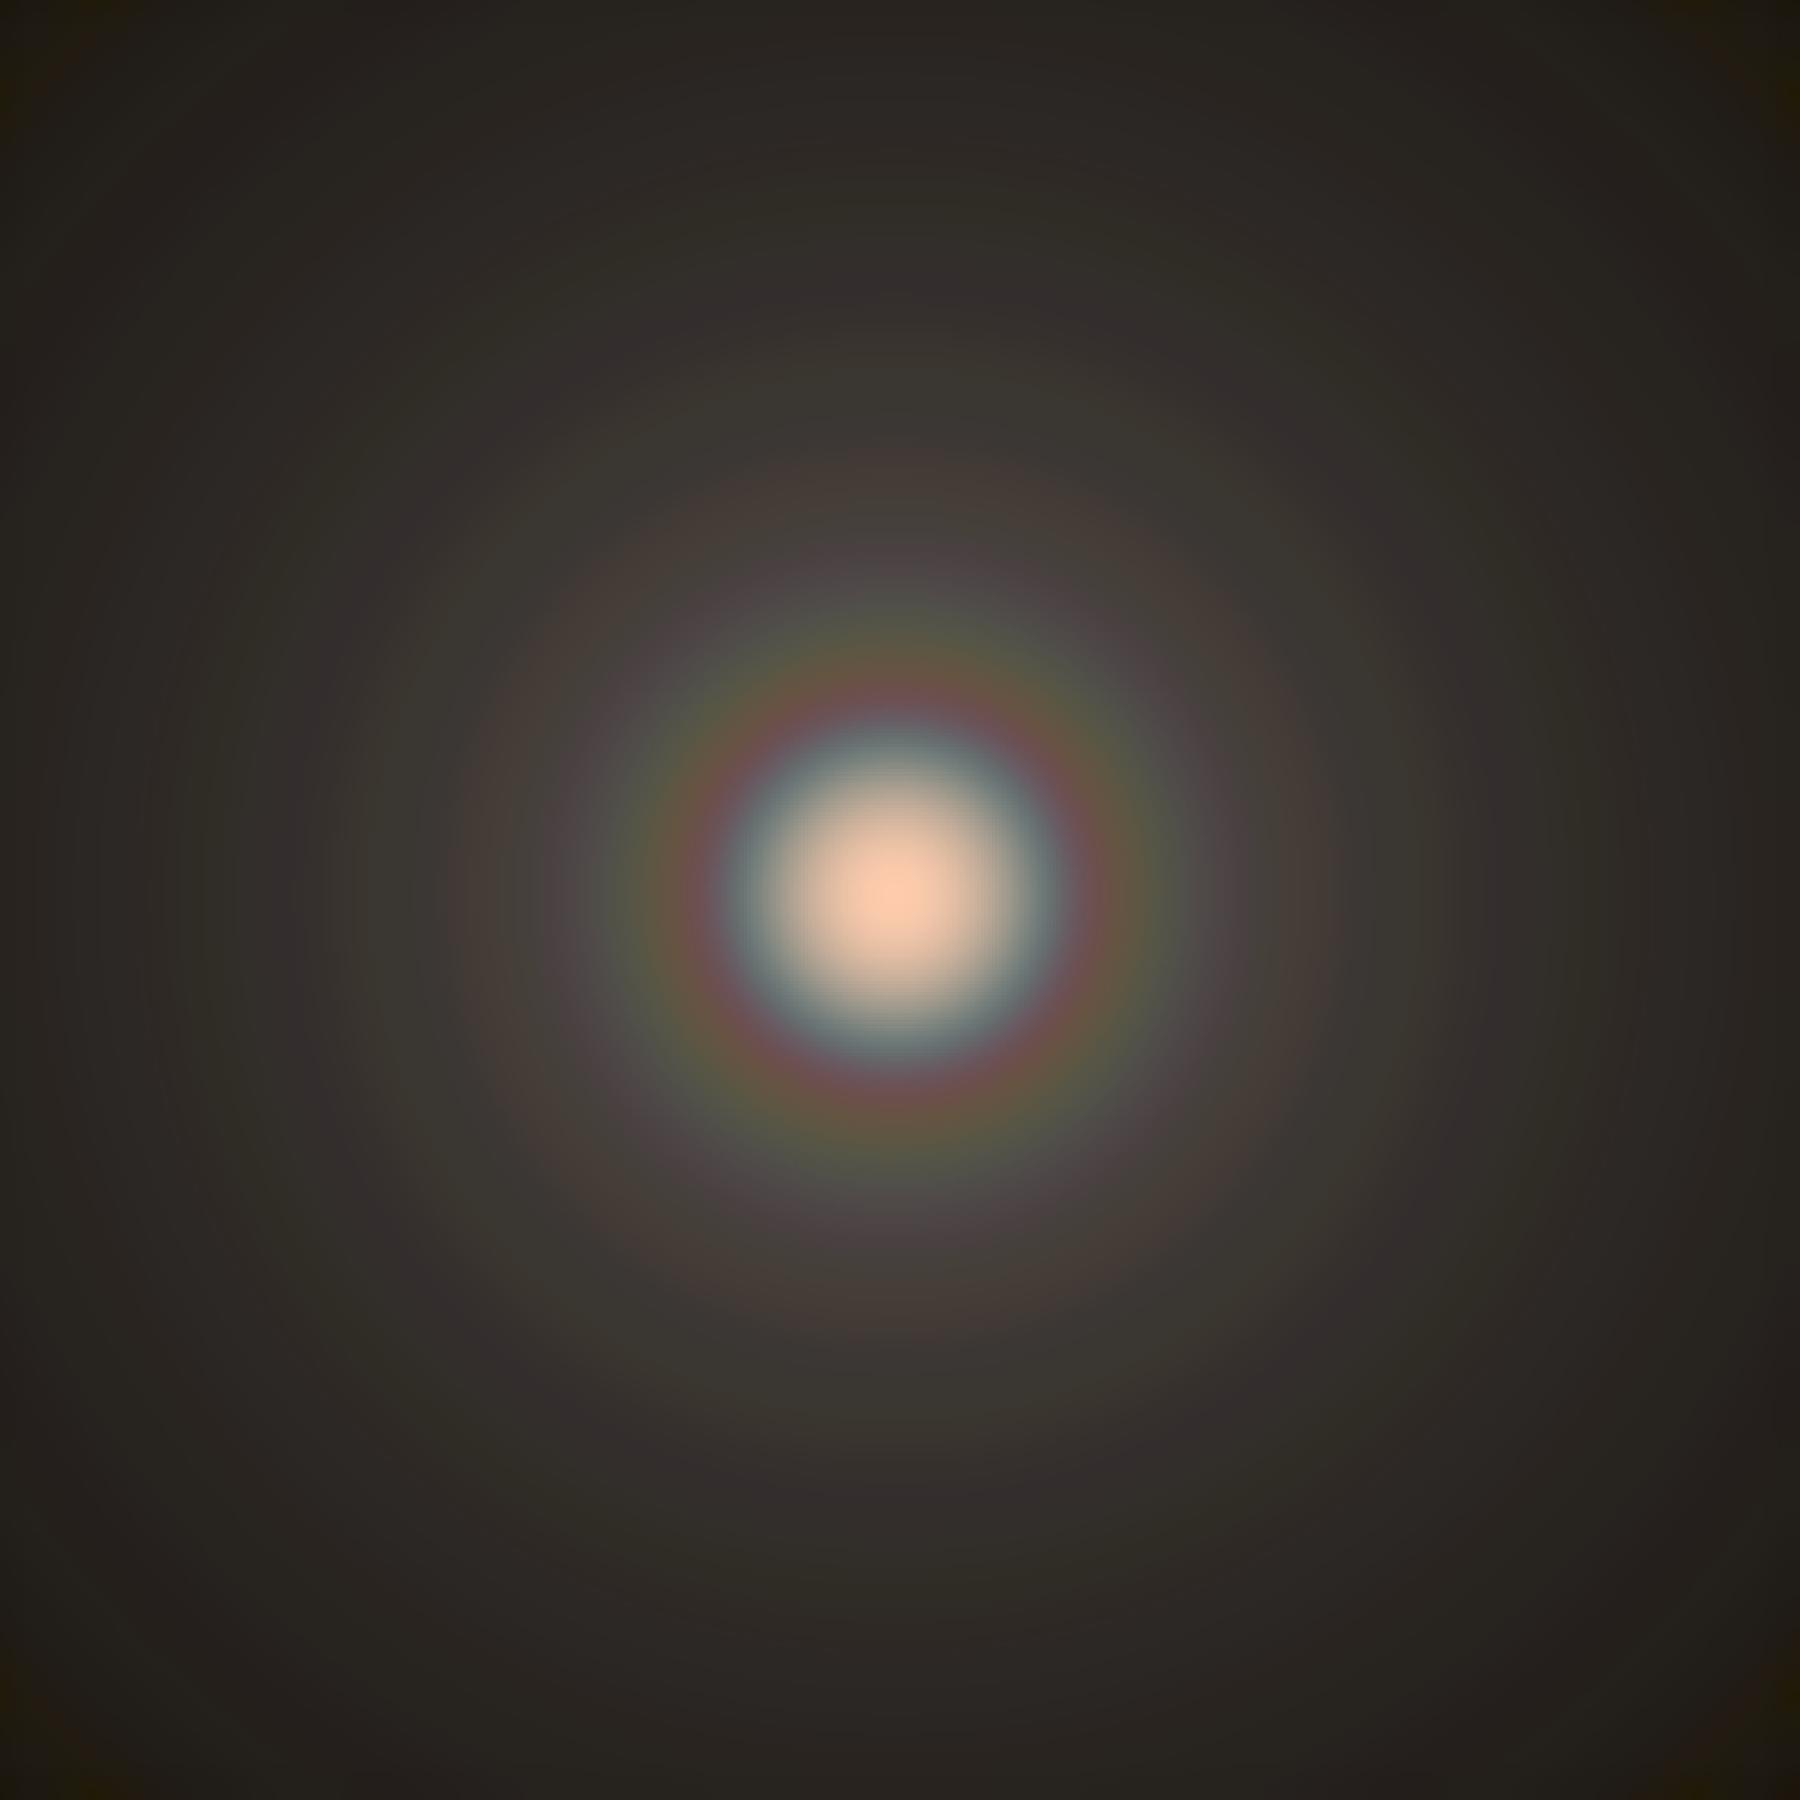
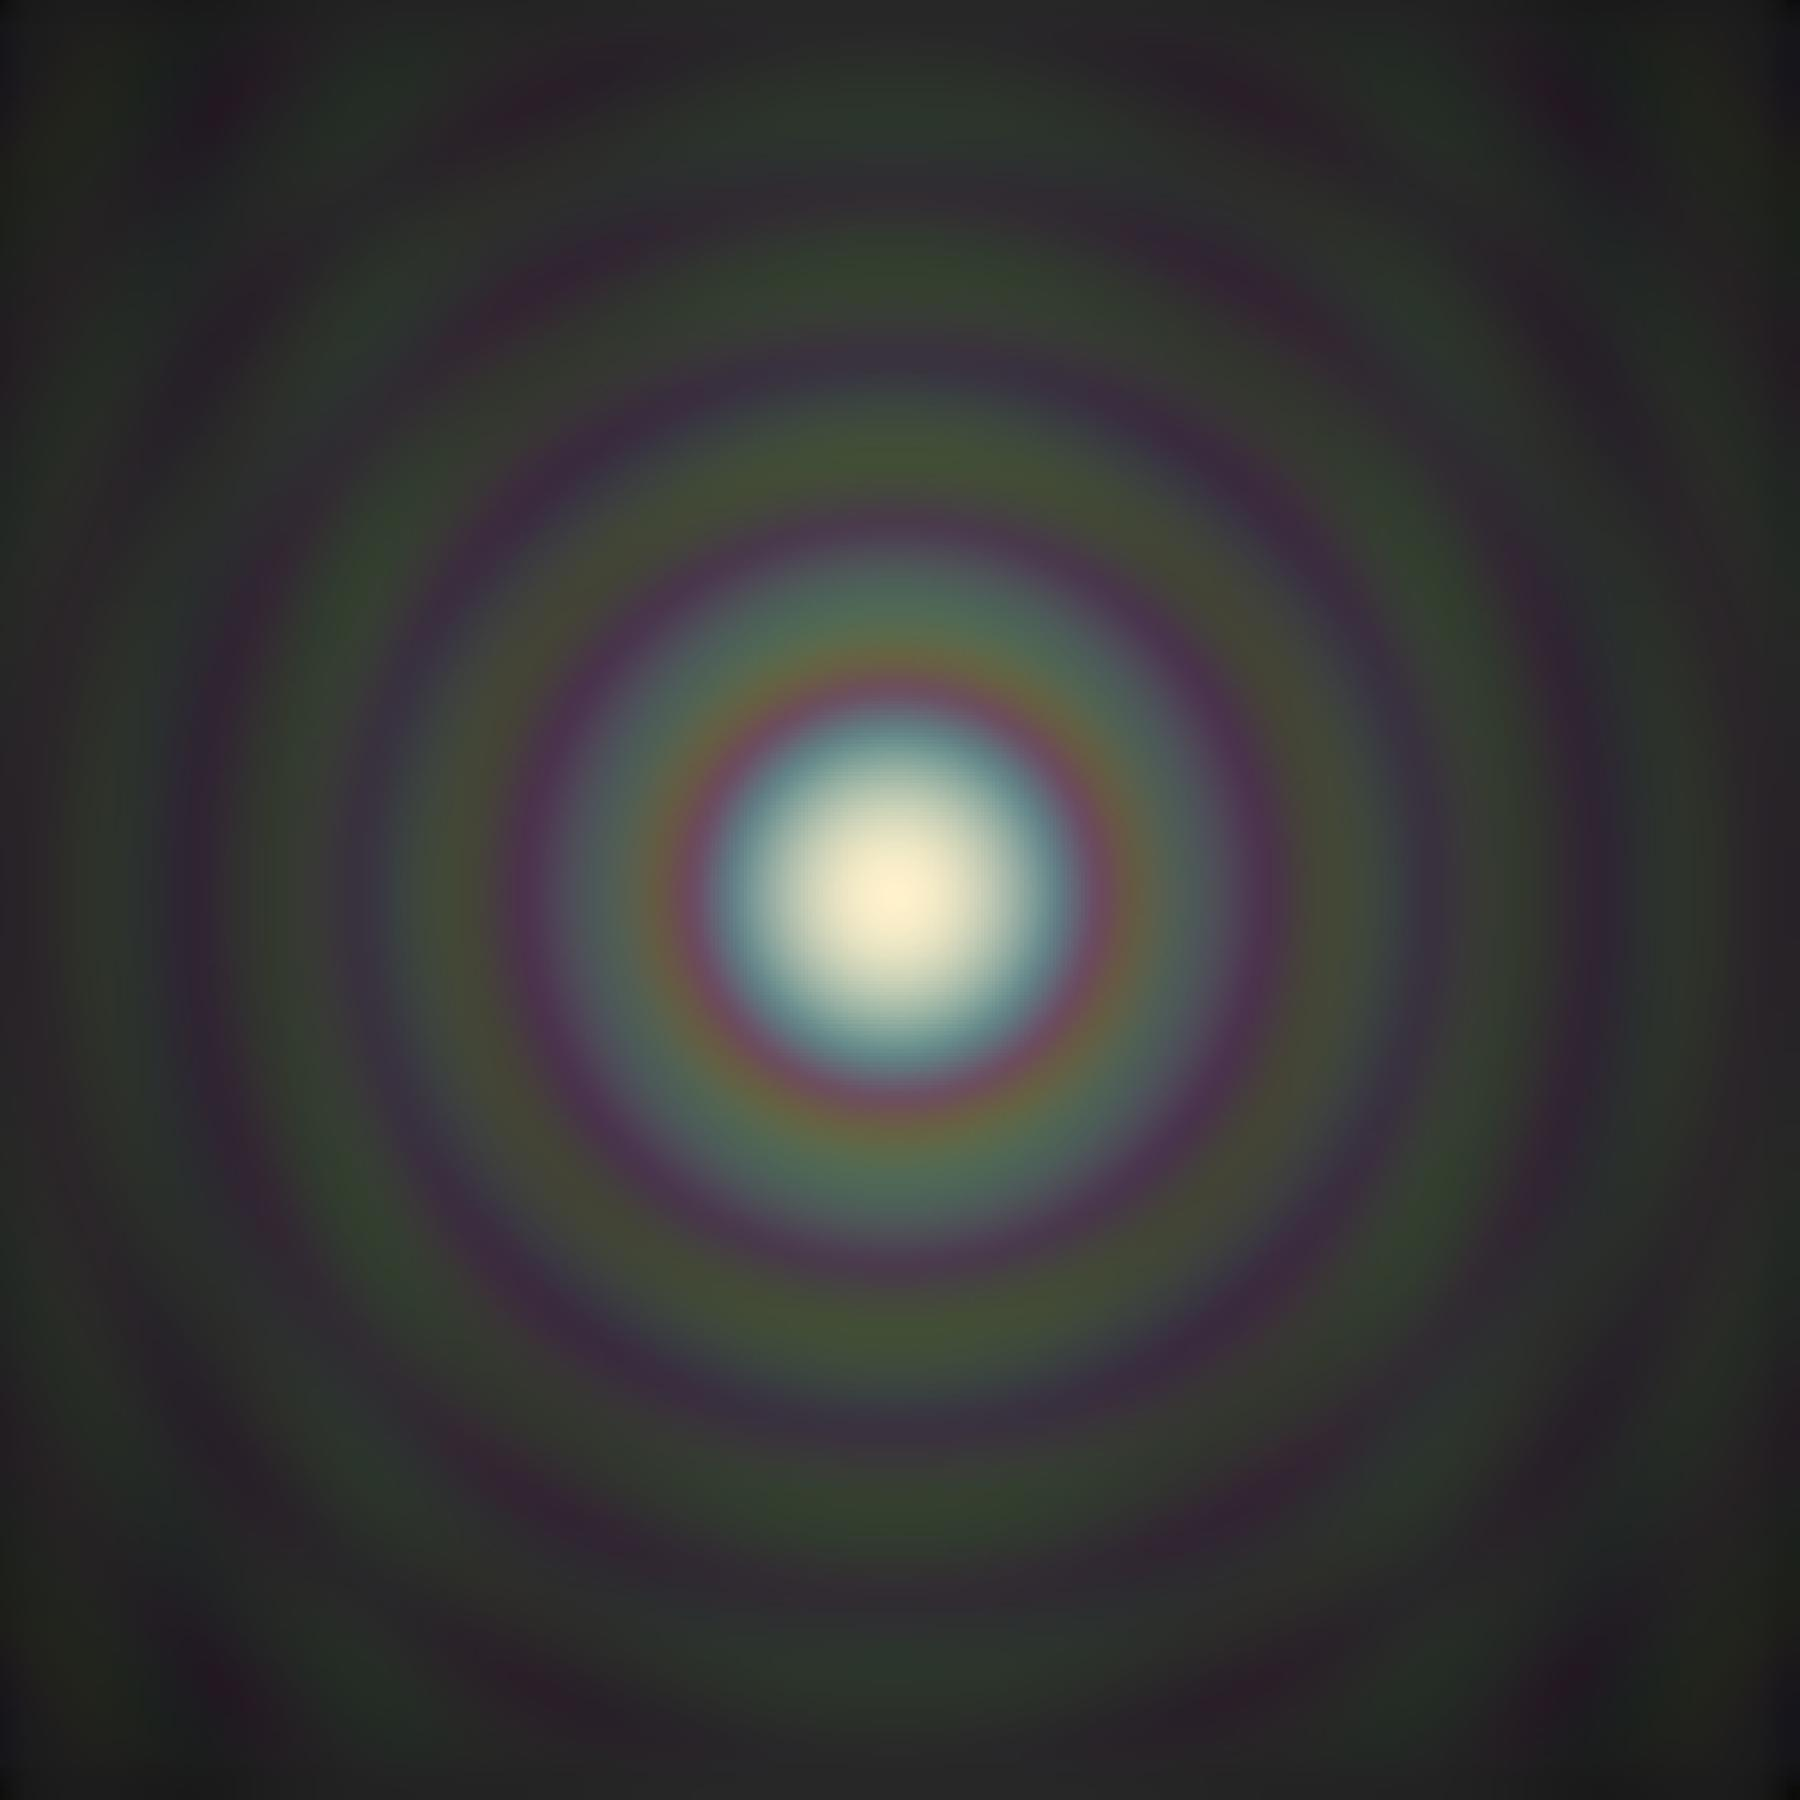
white balance

Changed region(s): [[0.3733, 0.4044, 0.5911, 0.6222], [0.4667, 0.6533, 0.5289, 0.6844]]

diff --git a/Corona.py b/Corona.py
@@ -52,6 +52,13 @@ def planck(wav, T):
     return Spectrum
 
 def auto_adjust(img):
+    # White balance
+    B0 = img[0,:,0]
+    G0 = img[0,:,1]
+    R0 = img[0,:,2]
+    img[:,:,0] *= R0/B0
+    img[:,:,1] *= R0/G0
+    # Stretch
     Max = np.max(img)
     Min = np.min(img)
     img = (img - np.ones(np.shape(img))*Min)/Max
@@ -89,6 +96,8 @@ def profile(img):
     R = img[:,:,2]
     G = img[:,:,1]
     B = img[:,:,0]
+    G *= R[0]/G[0]
+    B *= R[0]/B[0]
     i = int((np.shape(img)[0]-1)/2+1)
     ax.semilogy(B[i,:], label='Blue', color='b')
     ax.semilogy(G[i,:], label='Green', color='g')
@@ -103,18 +112,18 @@ def One_Sim(FOV=15, L=501, cloud_size=1, filename="Corona.jpg"):
     img = np.zeros((L,L,3))
     SourceFunction = Create_Source('Moon', FOV, L)
     # https://en.wikipedia.org/wiki/Spectral_sensitivity#/media/File:Cones_SMJ2_E.svg
-    wave_B = np.linspace(357.2, 513.4, 10)
-    wave_G = np.linspace(448.6, 646.8, 10)
-    wave_R = np.linspace(528.3, 741.5, 10)
+    wave_B = np.linspace(380.0, 510.0, 10)
+    wave_G = np.linspace(510.0, 575.0, 20)
+    wave_R = np.linspace(575.0, 700.0, 20)
     B = Integrated_Image(wave_B, cloud_size, SourceFunction, planck(wave_B, 5500))
     G = Integrated_Image(wave_G, cloud_size, SourceFunction, planck(wave_G, 5500))
     R = Integrated_Image(wave_R, cloud_size, SourceFunction, planck(wave_R, 5500))
     img[:,:,0] = B
     img[:,:,1] = G
     img[:,:,2] = R
-    #img = auto_adjust(img)
-    #One_frame_mode(img, True, filename)
     profile(img)
+    img = auto_adjust(img)
+    One_frame_mode(img, True, filename)
 
 if __name__ == '__main__':
     One_Sim()
